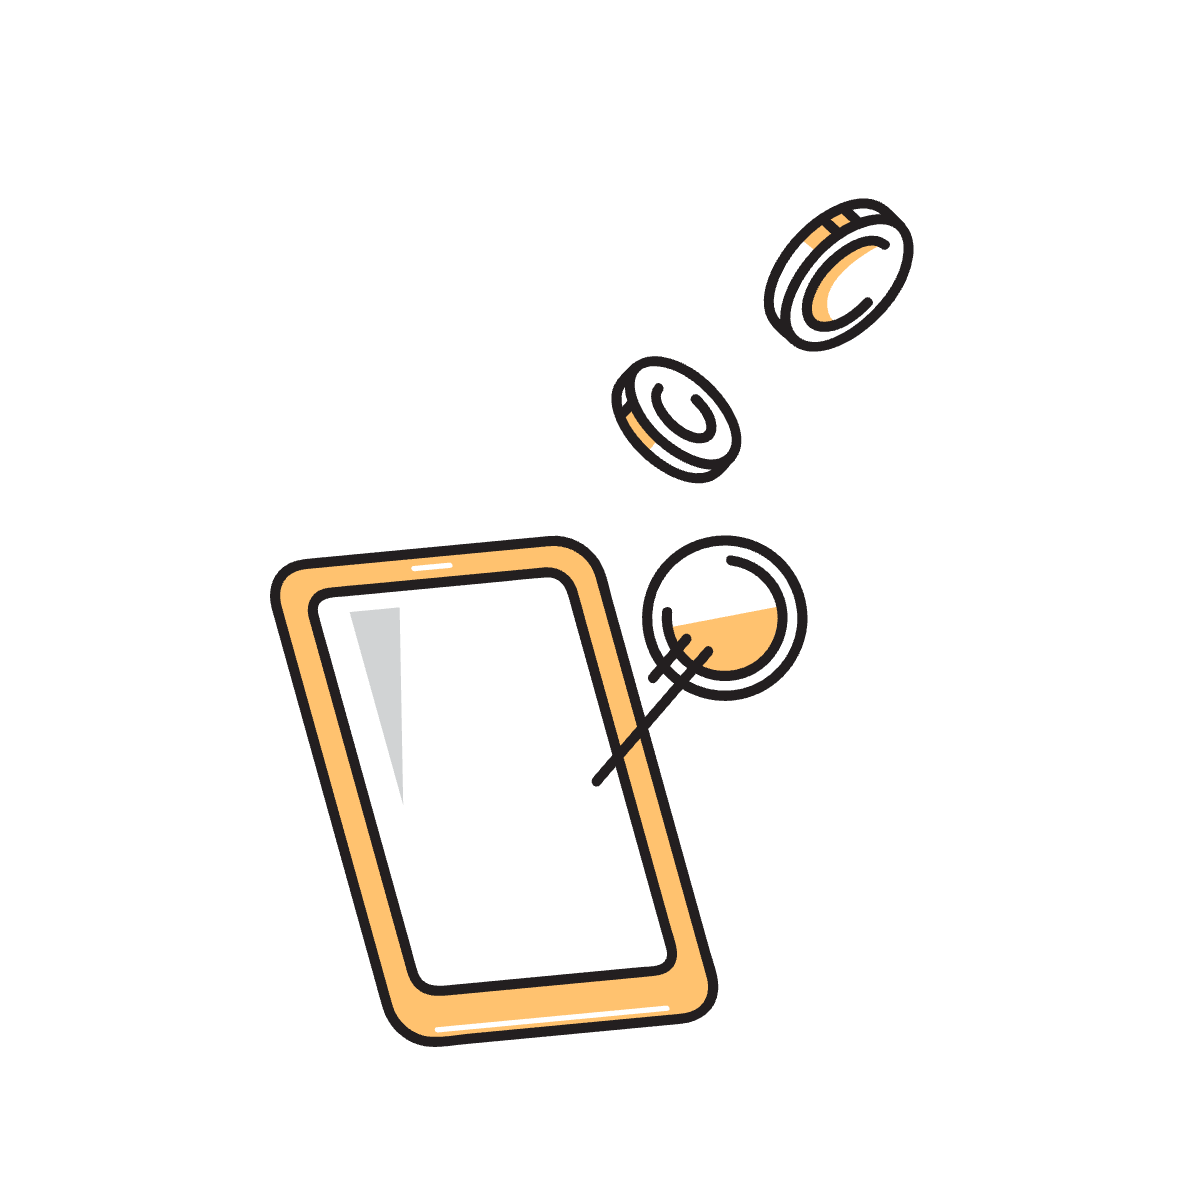
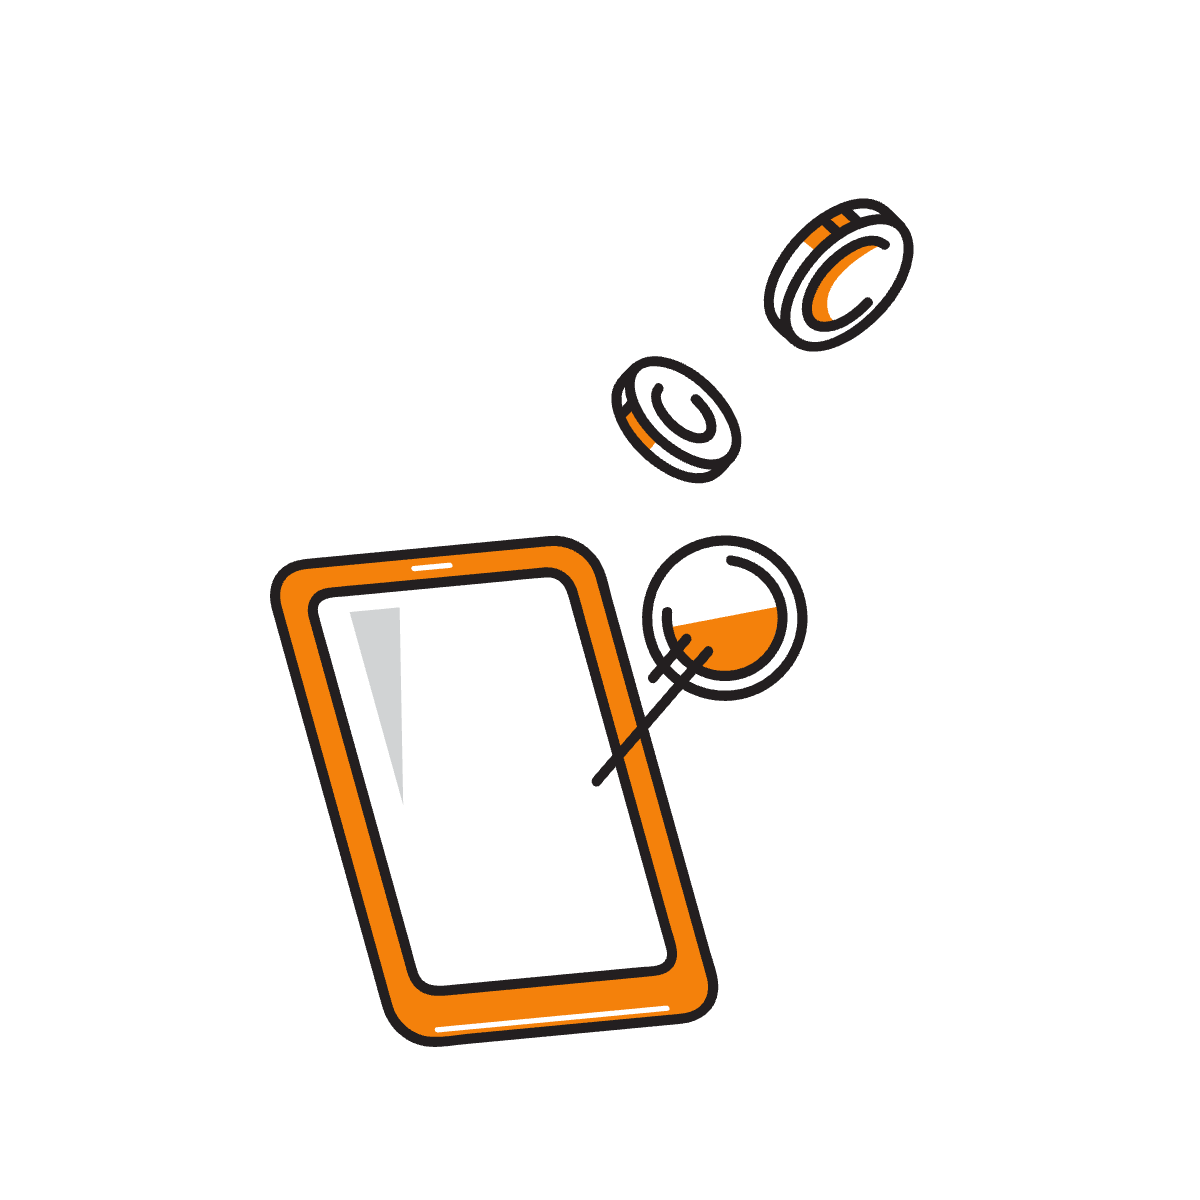
change design and add selectedMonth

diff --git a/features/home/home/instruction/Instruction.tsx b/features/home/home/instruction/Instruction.tsx
@@ -1,0 +1,34 @@
+import { ChartBarIcon, GlobeAltIcon } from "@heroicons/react/24/outline";
+import { HomeIcon } from "lucide-react";
+import React from "react";
+
+const Instruction = () => {
+  return (
+    <section className="bg-HomeBg px-5 py-12 sm:px-10">
+      <h2 className="text-2xl text-center font-bold sm:text-3xl">Why Use This App?</h2>
+      <ul className="mt-5 space-y-3 max-w-md mx-auto sm:space-y-4 sm:mt-8">
+        <li className="flex justify-start items-center">
+          <HomeIcon className="mr-2 h-6 min-w-8" />
+          <span className="text-sm sm:text-md">
+            Simplify and streamline your household budgeting process.
+          </span>
+        </li>
+        <li className="flex justify-start items-center">
+          <GlobeAltIcon className="mr-2 h-6 min-w-8" />
+          <span className="text-sm sm:text-md">
+            Manage your finances globally with multi-currency support.
+          </span>
+        </li>
+        <li className="flex justify-start items-center">
+          <ChartBarIcon className="mr-2 h-6 min-w-8" />
+          <span className="text-sm sm:text-md">
+            Benefit from an intuitive interface and powerful features that help
+            you stay on top of your finances.
+          </span>
+        </li>
+      </ul>
+    </section>
+  );
+};
+
+export default Instruction;

diff --git a/features/home/home/multiCurrency/MultiCurrency.tsx b/features/home/home/multiCurrency/MultiCurrency.tsx
@@ -1,0 +1,26 @@
+import React from "react";
+
+const MultiCurrency = () => {
+  return (
+    <section className="px-5 py-12 sm:px-10">
+      <h2 className="text-2xl text-center font-bold sm:text-3xl">Multi Currency</h2>
+      <div className="sm:grid sm:grid-cols-2 sm:items-center sm:mt-8">
+          <p className="mt-5 sm:mt-0">
+            Our unique feature supports multiple currencies, allowing you to
+            view your income, expenses, and balance in the currency of your
+            choice. With automatic exchange rate updates, you always have
+            accurate financial information at your fingertips.
+          </p>
+        <div className="max-h-[200px] w-[200px] mx-auto">
+          <img
+            src="/multi.png"
+            alt="multi currency"
+            className="max-h-[200px] w-[200px]"
+          />
+        </div>
+      </div>
+    </section>
+  );
+};
+
+export default MultiCurrency;

diff --git a/features/home/home/dashboard/Dashboard.tsx b/features/home/home/dashboard/Dashboard.tsx
@@ -1,0 +1,17 @@
+import React from 'react'
+
+const Dashboard = () => {
+  return (
+    <section className='px-5 py-12 bg-HomeBg sm:px-10'>
+      <h2 className="text-2xl text-center font-bold sm:text-3xl">Dashboard</h2>
+      <div className='mt-5 sm:mt-8 sm:grid sm:grid-cols-2 sm:items-center sm:grid-flow-row-dense'>
+        <p className='sm:order-2'>Convert all your transactions into your primary currency for a clear financial overview, easily manage your transactions, and access a detailed list to stay on top of your finances.</p>
+        <div className='max-h-[200px] w-[200px] mx-auto sm:order-1'>
+          <img src="/money.png" alt="money" className='max-h-[200px] w-[200px]'/>
+        </div>
+      </div>
+    </section>
+  )
+}
+
+export default Dashboard

diff --git a/features/home/home/chart/Chart.tsx b/features/home/home/chart/Chart.tsx
@@ -1,0 +1,21 @@
+import React from "react";
+
+const Chart = () => {
+  return (
+    <section className="px-5 py-12 bg-HomeBg sm:px-10">
+      <h2 className="text-2xl text-center font-bold sm:text-3xl">Chart</h2>
+      <div className="mt-5 sm:mt-8 sm:grid sm:grid-cols-2 sm:items-center sm:grid-flow-row-dense">
+        <p className="sm:order-2">Visualize your income and expenses by category to gain better financial insights and make more informed budgeting decisions.</p>
+        <div className="max-h-[200px] w-[200px] mx-auto sm:order-1">
+          <img
+            src="/chart.png"
+            alt="chart"
+            className="max-h-[200px] w-[200px]"
+          />
+        </div>
+      </div>
+    </section>
+  );
+};
+
+export default Chart;

diff --git a/features/home/home/hero/Hero.tsx b/features/home/home/hero/Hero.tsx
@@ -1,0 +1,21 @@
+import React from 'react'
+
+const Hero = () => {
+  return (
+    <section>
+        <div className="px-5 py-14 sm:grid sm:grid-cols-2 sm:items-center sm:py-8 sm:px-10">
+          <div className="text-center md:flex md:flex-col md:justify-center">
+            <h2 className="text-4xl font-bold sm:text-5xl lg:text-6xl xl:text-7xl">MoneyMate</h2>
+            <p className="text-lg  mt-5 font-semibold md:text-xl lg:text-2xl xl:text-3xl">
+              Your Best Partner in Household Budgeting
+            </p>
+          </div>
+          <div className="hidden sm:block">
+            <img src="/home.png" alt="" className="h-full" />
+          </div>
+        </div>
+      </section>
+  )
+}
+
+export default Hero

diff --git a/features/chart/Chart.tsx b/features/chart/Chart.tsx
@@ -2,12 +2,16 @@ import React from 'react'
 import PieChart from './piechart/PieChart'
 import DonutChart from './donutChart/DonutChart'
 import BarChart from './barChart/BarChart'
+import Title from '@/app/components/elements/Title'
+import SelectedMonth from '@/app/components/elements/selectedMonth'
 
 const Chart = () => {
   return (
     <section className='px-5 py-10 md:p-10'>
         <div className="sm:w-10/12 sm:mx-auto md:w-full md:mx-0">
-          <div className="md:grid md:grid-cols-2 md:gap-10">
+          <Title title="Select Month" />
+          <SelectedMonth />
+          <div className="mt-10 md:grid md:grid-cols-2 md:gap-10">
             <PieChart />
             <DonutChart />
           </div>

diff --git a/features/home/home/budget/Budget.tsx b/features/home/home/budget/Budget.tsx
@@ -1,0 +1,21 @@
+import React from "react";
+
+const Budget = () => {
+  return (
+    <section className="px-5 py-12 sm:px-10">
+      <h2 className="text-2xl text-center font-bold sm:text-3xl">Budget</h2>
+      <div className="mt-5 sm:grid sm:grid-cols-2 sm:items-center sm:mt-8">
+        <p>Add new budgets to streamline household management, monitor your spending habits, and ensure effective financial planning.</p>
+        <div className="max-h-[200px] w-[200px] mx-auto">
+          <img
+            src="/budget.png"
+            alt="money"
+            className="max-h-[200px] w-[200px]"
+          />
+        </div>
+      </div>
+    </section>
+  );
+};
+
+export default Budget;

diff --git a/features/home/home/login/HomeLogin.tsx b/features/home/home/login/HomeLogin.tsx
@@ -1,0 +1,22 @@
+import { Button } from "@/components/ui/button";
+import Link from "next/link";
+import React from "react";
+
+const HomeLogin = () => {
+  return (
+    <section className="px-5 py-14">
+      <div>
+        <p className="text-xl text-center font-semibold">If you are interested, click here↓↓</p>
+      </div>
+      <div className="mt-5 xs:w-[270px] xs:mx-auto">
+        <Link href="/auth/login">
+          <Button className="bg-buttonPrimary w-full font-bold sm:w-[270px]">
+            Get Start!!
+          </Button>
+        </Link>
+      </div>
+    </section>
+  );
+};
+
+export default HomeLogin;

diff --git a/features/home/home/HomeContent.tsx b/features/home/home/HomeContent.tsx
@@ -1,0 +1,18 @@
+import Instruction from "./instruction/Instruction";
+import MultiCurrency from "./multiCurrency/MultiCurrency";
+import Dashboard from "./dashboard/Dashboard";
+import Budget from "./budget/Budget";
+import Chart from "./chart/Chart";
+import Hero from "./hero/Hero";
+import HomeLogin from "./login/HomeLogin";
+import Footer from "@/app/components/layout/Footer";
+
+const HomeContent = () => {
+  return (
+    <>
+      <Hero />
+    </>
+  );
+};
+
+export default HomeContent;

diff --git a/features/chart/donutChart/utils/transformData.ts b/features/chart/donutChart/utils/transformData.ts
@@ -8,6 +8,13 @@ const transformData = (transactions: TransactionType[], selectedMonth: string): 
 
   const expense = filteredTransactions.filter((transaction) => transaction.type === "Expense").reduce((acc, t) => acc + Number(t.converted_amount), 0);
 
+  if(income === 0 && expense === 0) {
+    return {
+      labels: [],
+      datasets: [],
+    }
+  }
+
   return {
     labels: ['Income', 'Expense'],
     datasets: [

diff --git a/app/components/layout/supabaseListener.tsx b/app/components/layout/supabaseListener.tsx
@@ -1,8 +1,9 @@
-import { Database } from "@/lib/database.types";
+
 import { createServerComponentClient } from "@supabase/auth-helpers-nextjs";
 import React from "react";
 import { cookies } from "next/headers";
 import Header from "./Header";
+import { Database } from "@/lib/database.types2";
 
 const SupabaseListener = async () => {
   const supabase = createServerComponentClient<Database>({

diff --git a/features/chart/piechart/PieChart.tsx b/features/chart/piechart/PieChart.tsx
@@ -131,7 +131,7 @@ const PieChart = () => {
               </CardHeader>
               <CardContent>
                 {data.labels.length > 0 ? (
-                  <div>
+                  <div className="md:min-h-[250px] lg:min-h-[300px]">
                     <Pie data={data} options={options} />
                   </div>
                 ) : (
